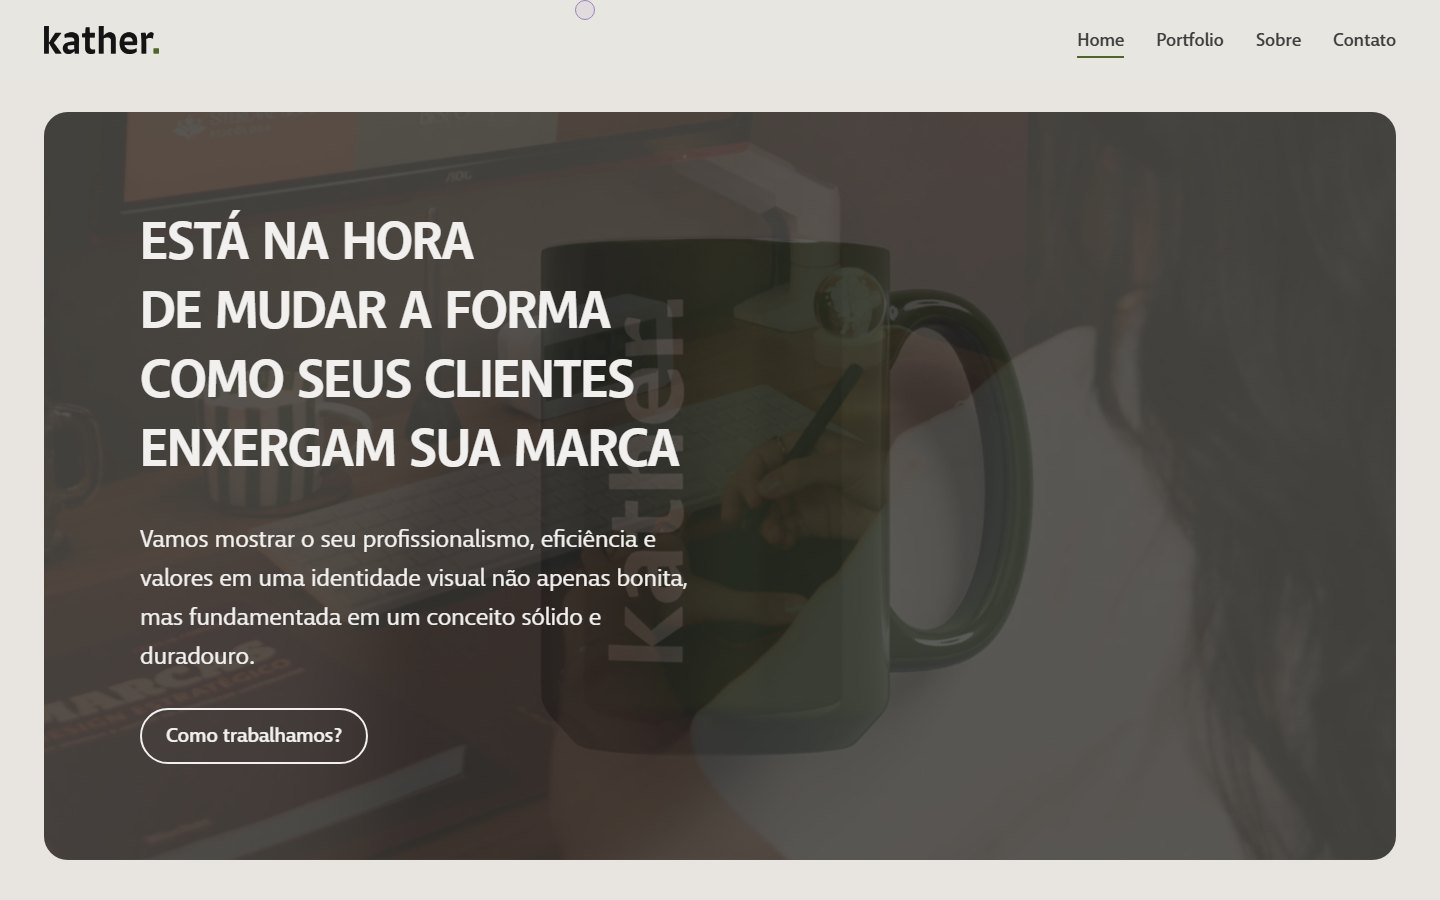
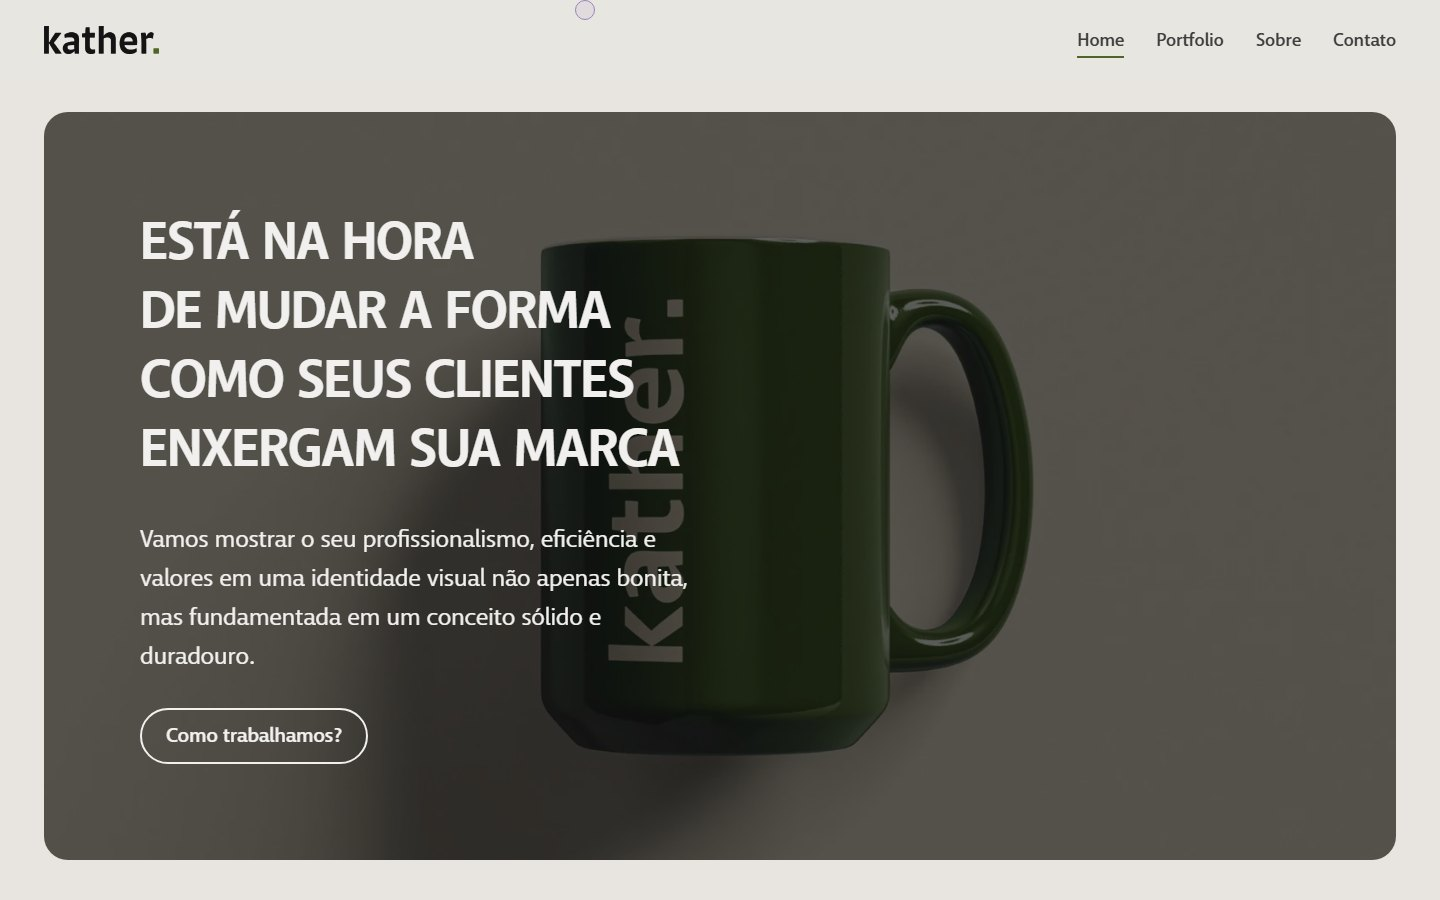
feat: mostra todas as paginas do Studio Kather

Changed region(s): [[0.375, 0.2489, 0.7188, 0.8711]]

diff --git a/src/components/ProjectGallery.jsx b/src/components/ProjectGallery.jsx
@@ -13,6 +13,7 @@ function ProjectGallery({ project, language, labels }) {
   const scrollTriggerRef = useRef(null);
   const [activeIndex, setActiveIndex] = useState(0);
   const [reducedMotion, setReducedMotion] = useState(false);
+  const markerInset = `${50 / project.gallery.length}%`;
 
   useEffect(() => {
     const media = window.matchMedia("(prefers-reduced-motion: reduce)");
@@ -122,13 +123,19 @@ function ProjectGallery({ project, language, labels }) {
         </div>
 
         <div className="relative mx-auto mt-7 max-w-xl px-3">
-          <div className="absolute left-[16.66%] right-[16.66%] top-4 h-px bg-[var(--border-subtle)]" />
+          <div
+            className="absolute top-4 h-px bg-[var(--border-subtle)]"
+            style={{ left: markerInset, right: markerInset }}
+          />
           <div
             ref={progressRef}
-            className="absolute left-[16.66%] right-[16.66%] top-4 h-px origin-left bg-[var(--accent)]"
-            style={{ transform: "scaleX(0)" }}
+            className="absolute top-4 h-px origin-left bg-[var(--accent)]"
+            style={{ left: markerInset, right: markerInset, transform: "scaleX(0)" }}
           />
-          <div className="relative grid grid-cols-3">
+          <div
+            className="relative grid"
+            style={{ gridTemplateColumns: `repeat(${project.gallery.length}, minmax(0, 1fr))` }}
+          >
             {project.gallery.map((item, index) => (
               <button
                 key={item.image}

diff --git a/src/data/projects.js b/src/data/projects.js
@@ -8,6 +8,7 @@ import nestForgeImg from "../assets/images/nestforge.png";
 import katherScreen1 from "../assets/images/cases/studio-kather-01.jpg";
 import katherScreen2 from "../assets/images/cases/studio-kather-02.jpg";
 import katherScreen3 from "../assets/images/cases/studio-kather-03.jpg";
+import katherScreen4 from "../assets/images/cases/studio-kather-04.jpg";
 import karineScreen1 from "../assets/images/cases/karine-azevedo-01.jpg";
 import karineScreen2 from "../assets/images/cases/karine-azevedo-02.jpg";
 import karineScreen3 from "../assets/images/cases/karine-azevedo-03.jpg";
@@ -69,11 +70,15 @@ export const projects = [
       },
       {
         image: katherScreen2,
-        alt: { pt: "Portfólio e depoimentos do Studio Kather", en: "Studio Kather portfolio and testimonials" },
+        alt: { pt: "Página de portfólio do Studio Kather", en: "Studio Kather portfolio page" },
       },
       {
         image: katherScreen3,
-        alt: { pt: "Contato e perguntas frequentes do Studio Kather", en: "Studio Kather contact and frequently asked questions" },
+        alt: { pt: "Página sobre o Studio Kather", en: "Studio Kather about page" },
+      },
+      {
+        image: katherScreen4,
+        alt: { pt: "Página de contato do Studio Kather", en: "Studio Kather contact page" },
       },
     ],
     caseStudy: {
